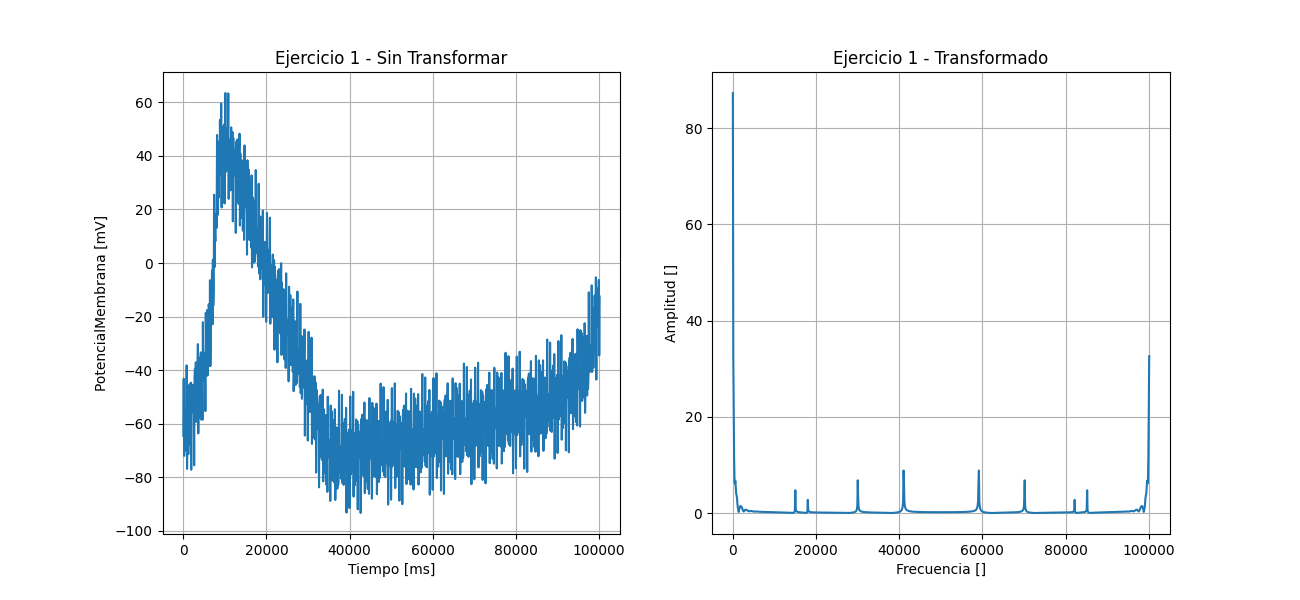
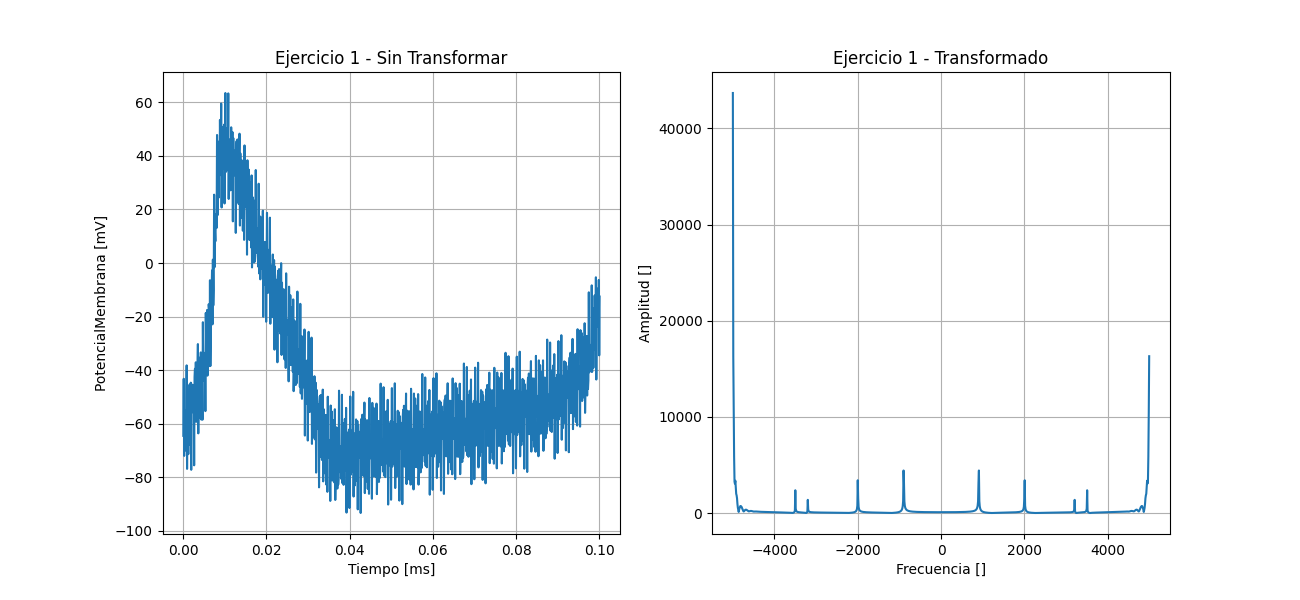
verificado hasta el 2

diff --git a/tp.py b/tp.py
@@ -18,12 +18,15 @@ DatosPotencialMembrana = info[3]
 PotencialMembrana = list(map(float, (DatosPotencialMembrana.split(","))))
 Tiempo = list(map(float, (DatosTiempo.split(","))))
 
-
 N = len(PotencialMembrana)
-T = 1 / N # 0.1/N
+dt = 0.0001
+Fs = 1.0 / dt
+
 
 PMfft = fft(PotencialMembrana)
-xf = np.linspace(0, 100 * N , N)
+x = np.linspace(0, dt * N , N)
+
+w = Fs * np.linspace (-1/2, 1/2, N)
 
 #EJERCICIO1
 def ejercicio1():
@@ -32,14 +35,14 @@ def ejercicio1():
     fig.set_size_inches(13, 6)
 
 
-    ax1Ej1.plot(xf, PotencialMembrana, 1)
+    ax1Ej1.plot(x, PotencialMembrana, 1)
     plt.subplot(1,2,1)
     plt.title("Ejercicio 1 - Sin Transformar")
     plt.ylabel("PotencialMembrana [mV]")
     plt.xlabel("Tiempo [ms]")
     plt.grid()
  
-    ax2Ej1.plot(xf, 2/N * np.abs(PMfft), 2)
+    ax2Ej1.plot(w, np.abs(PMfft), 2)
     plt.subplot(1,2,2)
     plt.title("Ejercicio 1 - Transformado")
     plt.ylabel("Amplitud []")

diff --git a/main.py b/main.py
@@ -1,6 +1,6 @@
 import tkinter as tk
 import tp
-
+from PIL import ImageTk,Image  
 
 def main():
     ventana = tk.Tk()
@@ -9,7 +9,11 @@ def main():
     
     def createNewWindow():
         ejercicioVentana = tk.Toplevel(ventana)
+        canvas = tk.Canvas(ejercicioVentana, width = 300, height = 300)      
+        canvas.pack()      
+        img = tk.PhotoImage(file="./imagenes/ej1pic.png")      
         
+        canvas.create_image(100,100, anchor="nw", image=img).pack()  
 
 
     label = tk.Label(ventana, text = "Matematica Superior TP1", height=2)
